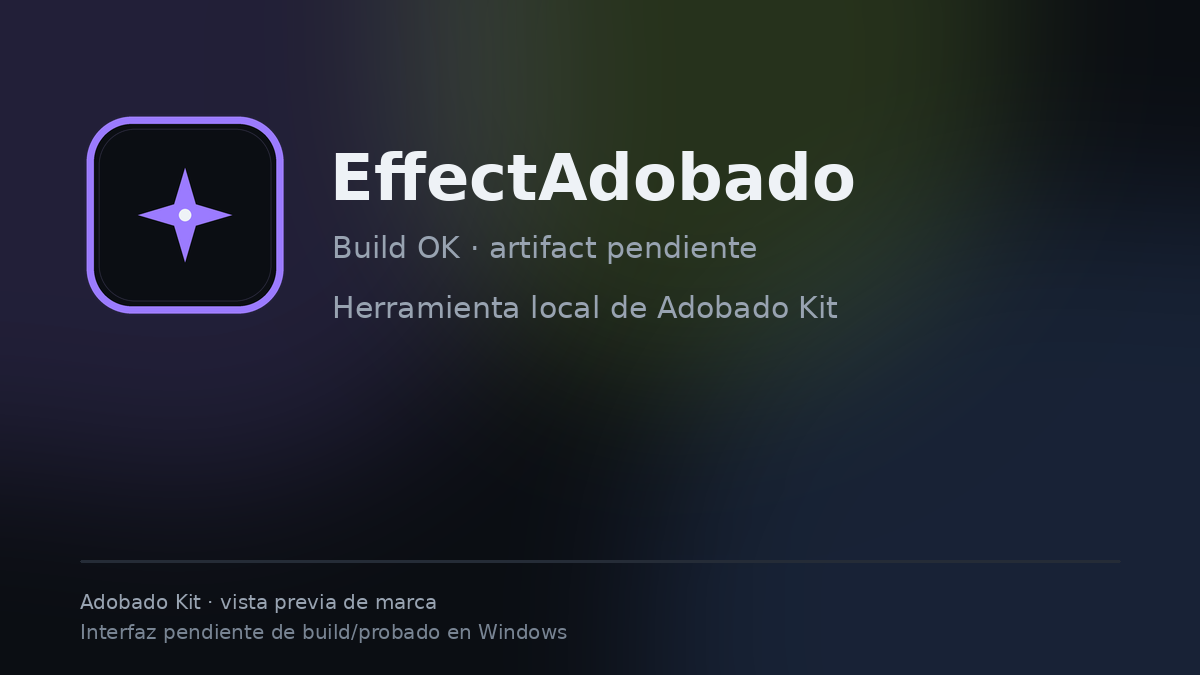
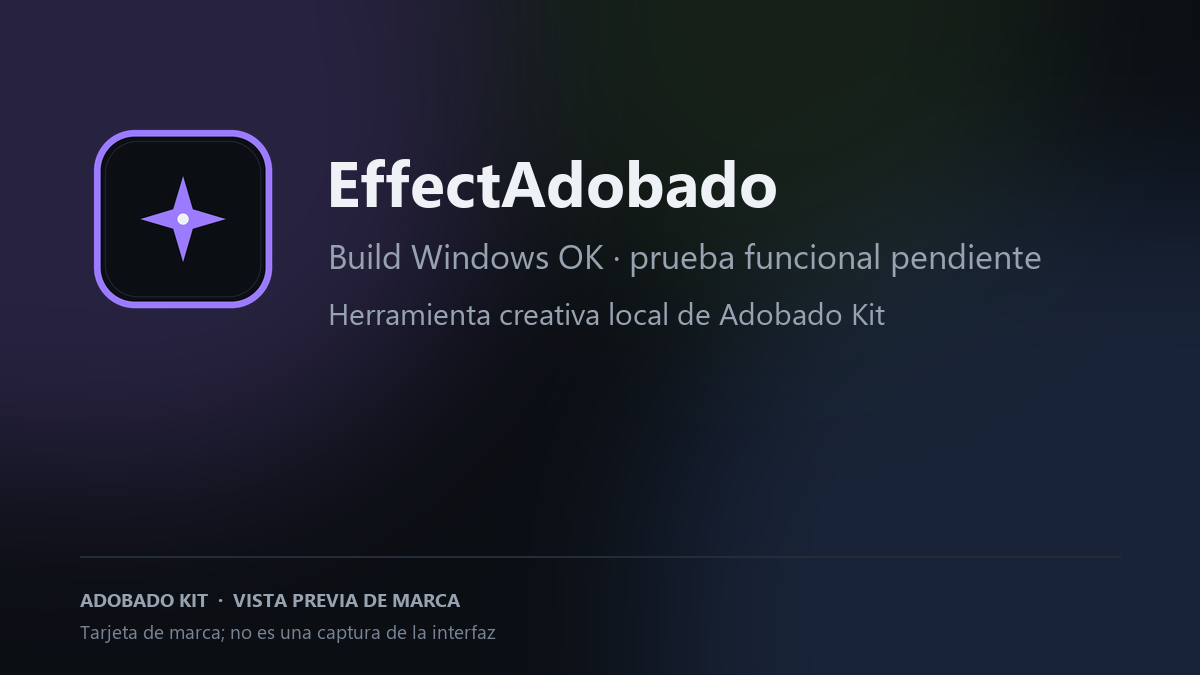
docs: update status and brand assets

diff --git a/README.md b/README.md
@@ -6,21 +6,27 @@
 
 [![License](https://img.shields.io/badge/license-MIT%20OR%20Apache--2.0-6cb6ff)](LICENSE-APACHE)
 [![Rust](https://img.shields.io/badge/Rust-1.95%2B-ff7a59)](Cargo.toml)
-[![Status](https://img.shields.io/badge/status-early%20alpha-d69e2e)](#estado)
-[![Stars](https://img.shields.io/github/stars/smouj/EffectAdobado?style=flat&color=FF5C5C)](https://github.com/smouj/EffectAdobado/stargazers)
+[![Windows build](https://github.com/smouj/EffectAdobado/actions/workflows/windows-build.yml/badge.svg?branch=main)](https://github.com/smouj/EffectAdobado/actions/workflows/windows-build.yml)
+[![Estado](https://img.shields.io/badge/status-instalaci%C3%B3n%20pendiente-ff7a59)](#estado)
+[![Estrellas](https://img.shields.io/github/stars/smouj/EffectAdobado?style=flat&color=B8F34A)](https://github.com/smouj/EffectAdobado/stargazers)
 [![Adobado Kit](https://img.shields.io/badge/Adobado%20Kit-hub-b8f34a)](https://github.com/smouj/Adobado_Kit)
 
-> **Alpha temprana.** Codigo importado y rebrandeado desde EffectCraft. Build de Windows y prueba de edicion pendientes. No se presenta como app disponible ni como sustituto profesional.
+> **Build de Windows correcta (20/10/2026).** Falta instalar e iniciar la app manualmente. La prueba de abrir, modificar y exportar un archivo real también está pendiente. La imagen siguiente es una tarjeta de marca, no una captura de la interfaz.
 >
 > Proyecto independiente. No afiliado a ArtCraft ni a Adobe.
 
-![EffectAdobado](docs/preview.png)
+![EffectAdobado — tarjeta de marca; interfaz pendiente](docs/preview.png)
+
+<sub>Tarjeta de marca; no es una captura de la interfaz.</sub>
 
 ## Estado
 
-- Codigo fuente: importado desde effectcraft en el commit ef74d82902ba486891b02afa87e42963cc9b84cc.
-- Rebranding visible: nombre, enlaces, README, avisos y documentacion.
-- Pendiente: compilar en Windows, probar abrir/editar/exportar y publicar release.
+- **Build de Windows:** correcto en GitHub Actions; consulta el [workflow actual](https://github.com/smouj/EffectAdobado/actions/workflows/windows-build.yml).
+- **Prueba manual:** instalación e inicio pendientes.
+- **Flujo funcional:** abrir, modificar y exportar un archivo real sigue pendiente.
+- **Disponibilidad:** alpha; todavía no se declara lista para uso general.
+- **Release pública:** todavía no existe. No se publica un binario hasta completar las pruebas.
+- **Commit de origen:** ef74d82902ba486891b02afa87e42963cc9b84cc.
 
 ## Build
 

diff --git a/docs/ADOBADO.md b/docs/ADOBADO.md
@@ -15,12 +15,13 @@
 - Se retiran los logos y assets de marca de ArtCraft incluidos en docs/brand.
 - No se han cambiado el motor, los formatos ni las funciones de edicion.
 
-## Pendiente
+## Estado de validación — 20/10/2026
 
-- Rebranding de iconos de aplicacion.
-- Build de Windows y prueba de abrir, editar y exportar.
-- Release solo cuando exista un binario probado.
-
+- **Build de Windows:** correcto en GitHub Actions ([workflow](https://github.com/smouj/EffectAdobado/actions/workflows/windows-build.yml)).
+- **Prueba manual:** instalación e inicio pendientes.
+- **Uso con archivos reales:** abrir, modificar y exportar sigue pendiente.
+- **Distribución:** todavía no hay una release pública; no se publicará un binario sin completar las pruebas.
+- **Origen:** ef74d82902ba486891b02afa87e42963cc9b84cc.
 ## Marcas
 
 ArtCraft, EffectCraft y sus logos son marcas del ArtCraft Team y no estan cubiertos por la licencia de codigo. Adobe y sus productos son marcas de Adobe Inc. Este proyecto no esta afiliado a Adobe ni a ArtCraft.

diff --git a/CHANGELOG.md b/CHANGELOG.md
@@ -1,5 +1,13 @@
 # Changelog - EffectAdobado
 
+## [Unreleased]
+
+### Documentado
+- Estado de compilación y validación manual de Windows actualizado.
+- Captura o tarjeta de marca identificada correctamente; se aclara que la prueba con archivos reales sigue pendiente.
+- Se confirma que todavía no existe una release pública.
+
+
 ## 0.1.0-alpha.1 - 2026-10-20
 
 ### Anadido
